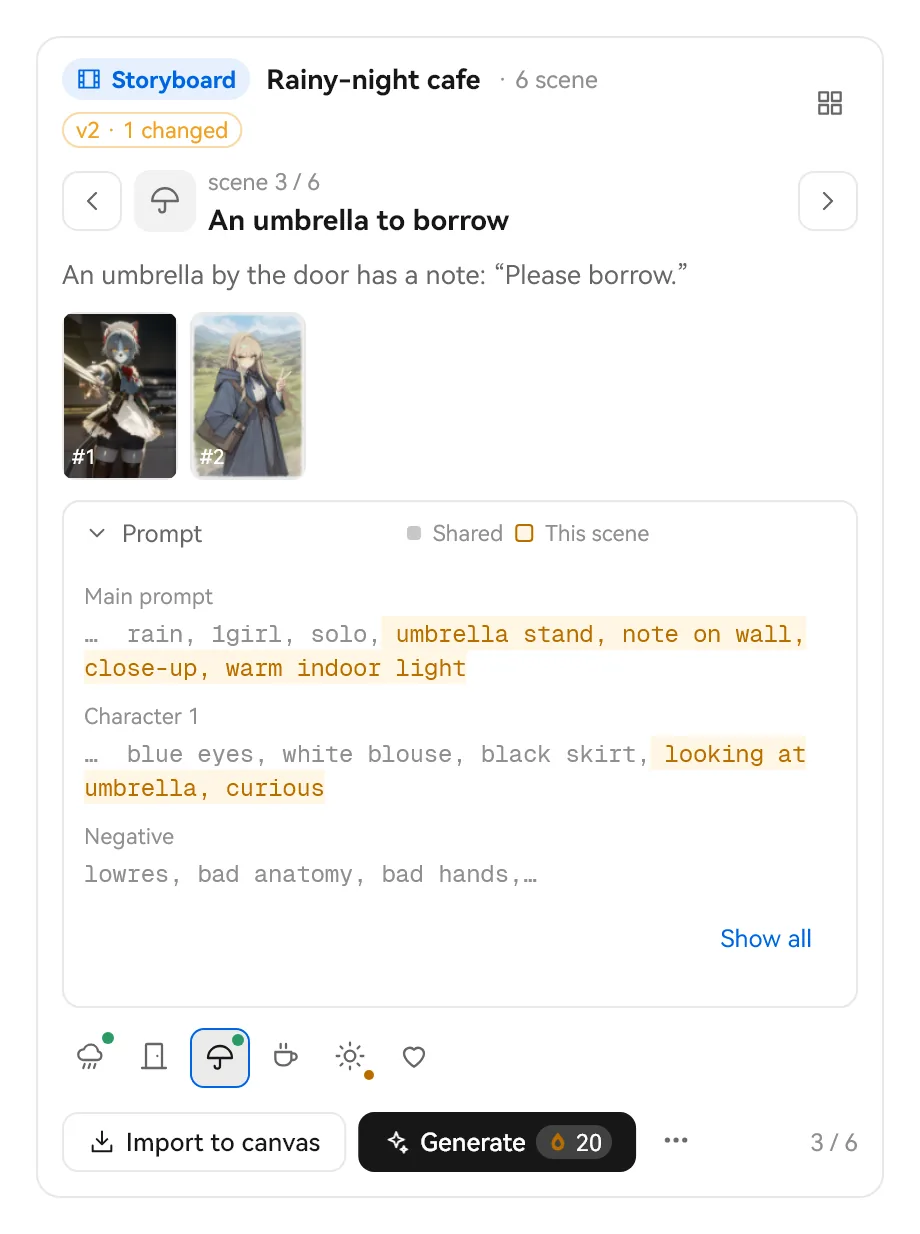
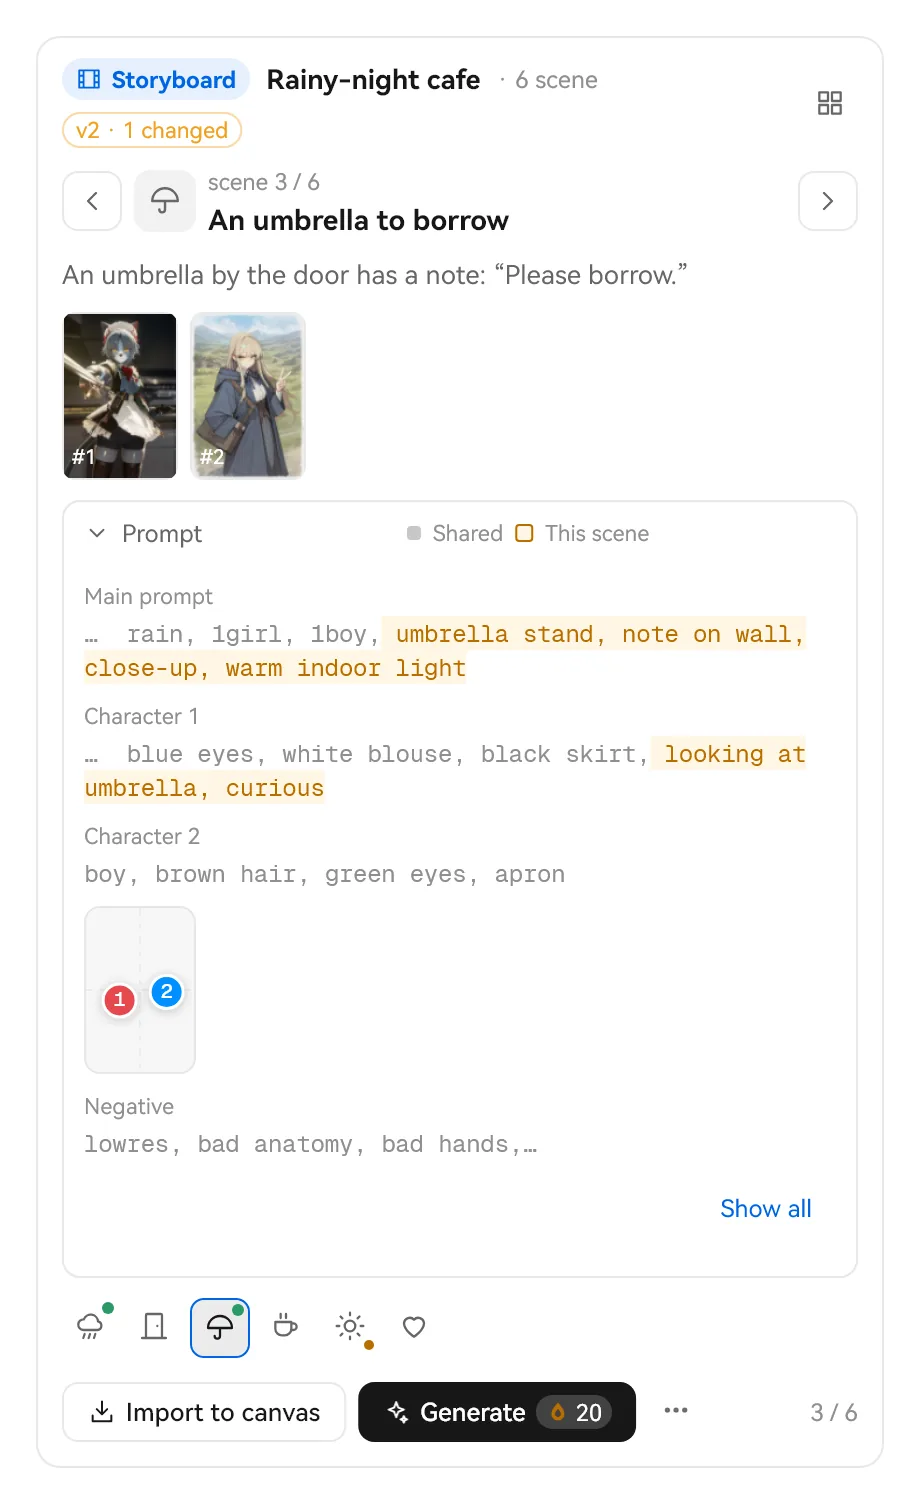
docs: prompt set screenshot shows positions; changelog

diff --git a/tool/readme_shots/agent_scenes.dart b/tool/readme_shots/agent_scenes.dart
@@ -124,13 +124,17 @@ AgentPromptSet _promptSet(ReadmeData d) {
           'night, rain, cafe window, warm light',
           'holding umbrella, happy',
         ),
-      ])
+      ].indexed)
         AgentPromptSetItem(
-          icon: entry.$1,
-          title: entry.$2,
-          note: entry.$3,
-          main: entry.$4,
-          characters: [entry.$5],
+          icon: entry.$2.$1,
+          title: entry.$2.$2,
+          note: entry.$2.$3,
+          main: entry.$2.$4,
+          characters: [entry.$2.$5],
+          // 第 3 幕示范角色位置：女孩在左、店员在右。
+          positions: entry.$1 == 2
+              ? const [Offset(.3, .55), Offset(.72, .5)]
+              : const [],
         ),
     ],
     changedItems: const [4],

diff --git a/tool/readme_shots/readme_capture_test.dart b/tool/readme_shots/readme_capture_test.dart
@@ -339,8 +339,8 @@ Future<void> capture(
         .toList();
     expect(
       promptFields,
-      hasLength(3),
-      reason: 'Main, character and negative expanded',
+      hasLength(4),
+      reason: 'Main, two characters and negative expanded',
     );
     expect(promptFields.first.textSpan!.toPlainText(), contains('… '));
     expect(

diff --git a/CHANGELOG.md b/CHANGELOG.md
@@ -13,6 +13,7 @@
 - **生成**先导入这一项，再弹出价格卡，确认后生成 1 张；再点一次就重新 roll。出过的图挂在这一项下面。
 - ⋯ 菜单里可以存成积木、复制这一项或全部、让 Agent 修改这一项。
 - 让 Agent 修改时会直接更新同一张卡，并标出改了哪几项；卡片和出过的图重启后都还在。
+- 可以给角色安排位置（比如两个人一左一右）：展开提示词会显示一块小定位板，导入画布时位置一起写入；没有安排位置的提示词组不显示。
 
 ### 🛠 改进与修复
 
